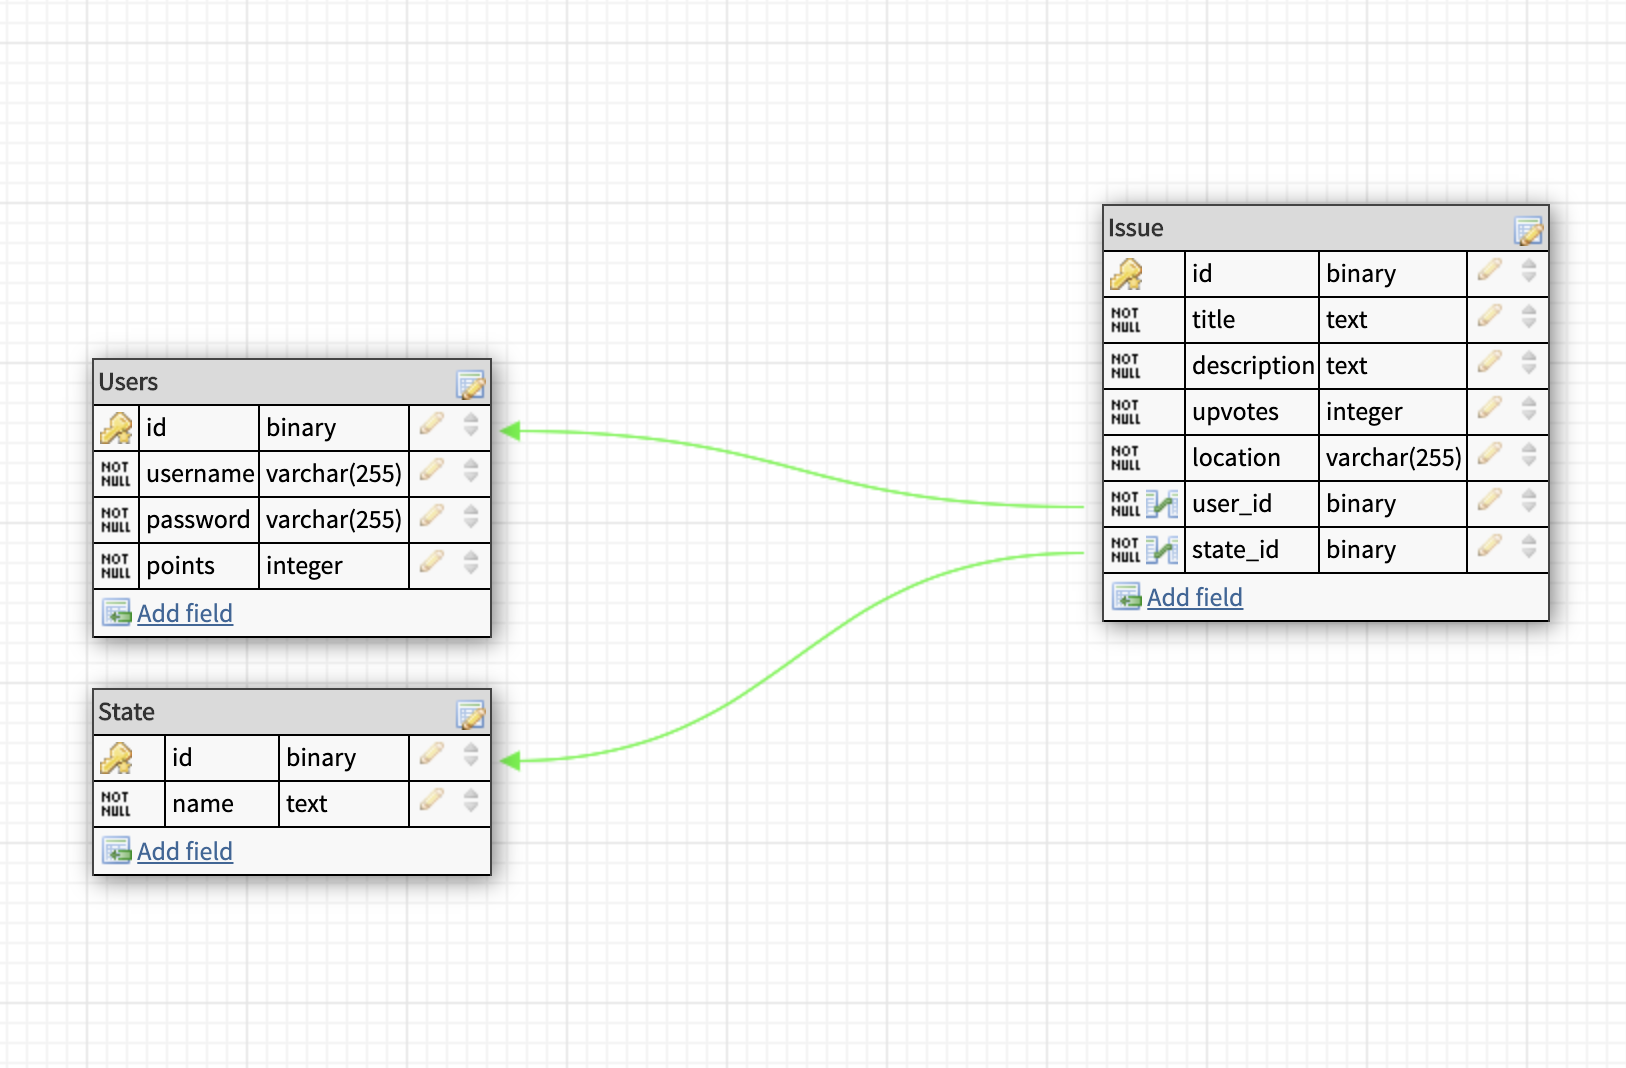
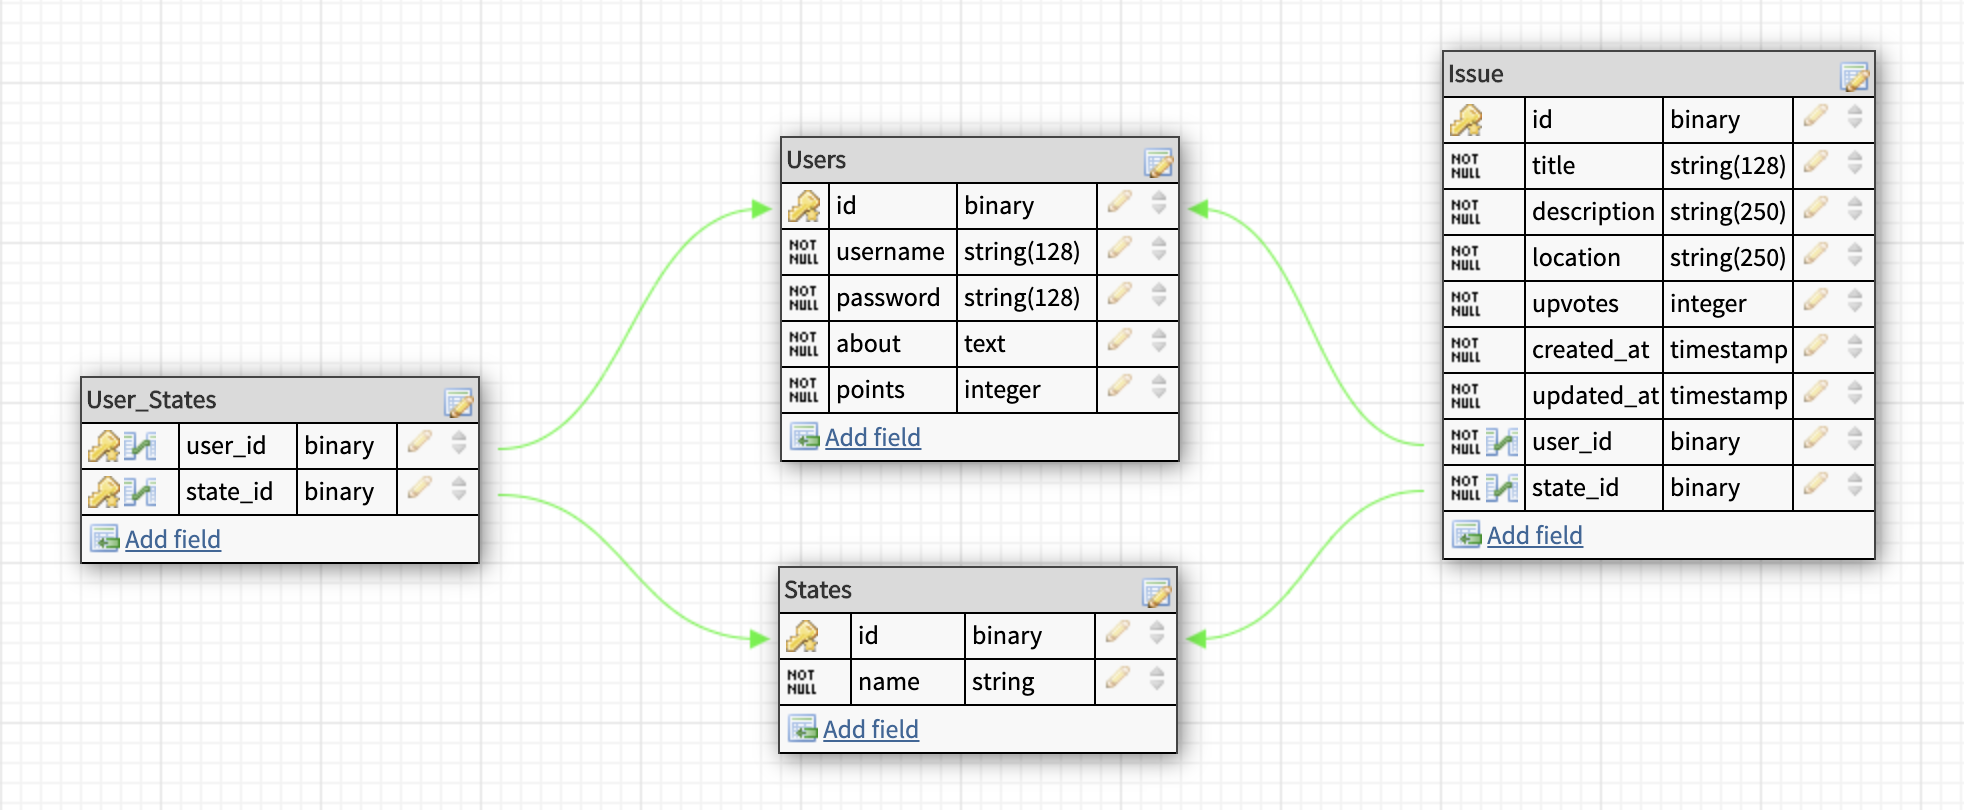
UPDATE routes

Changed region(s): [[0.0308, 0.0309, 0.984, 0.9568], [0.4613, 0.6173, 0.492, 0.6481]]

diff --git a/data/seeds/03-issues.js b/data/seeds/03-issues.js
@@ -1,21 +1,21 @@
 exports.seed = function(knex) {
       return knex('issues').insert([
-        {title: 'Potholes', description: 'There is a huge pothole on Interstate 95. It blew out my tire!', location: 'Interstate 95 south, mile marker 421', user_id: 5, state_id: 21},
-        {title: 'Construction', description: 'There has been construction going on outside my house for weeks. This needs to stop!', location: '456 Elm street, Winchester', user_id: 5, state_id: 21},
-        {title: 'Parking', description: 'I can never make it to the farmer\'s market because there is never any parking spots. We need more parking!', location: 'Downtown Winchester', user_id: 5, state_id: 21},
-        {title: 'Train issues', description: 'The train going into Boston is filthy. We really need someone to clean it periodically. I once sat on someone\'s leftover jelly donut. Ruined my new pants', location: '29 Waterfield Rd, Winchester, MA 01890', user_id: 5, state_id: 21},
-        {title: 'Dirty Beach', description: 'There is so much litter on the Cape, it\'s disgraceful!', location: 'Cape Code', user_id: 4, state_id: 21},
-        {title: 'Bad Ice Cream', description: 'I found multiple pieces of hair in my ice cream at Friendly\'s. I will never go again.', location: 'East Longmeadow', user_id: 4, state_id: 21},
-        {title: 'Yankees Fans', description: 'I keep seeing Yankees fans around Boston. This can NOT happen!', location: 'Boston', user_id: 4, state_id: 21},
-        {title: 'Salt on Roads', description: 'We need to stop putting salt on the roads everytime snow is in the forecast. It\'s going to turn my car into a rust bucket!', location: 'All roads everywhere.', user_id: 6, state_id: 21},
-        {title: 'Gas Prices', description: 'The price of gas in the city is crazy! Can you say "monopoly"?', location: 'Boston', user_id: 6, state_id: 21},
-        {title: 'Street Racing', description: 'I keep seeing the same group of cars racing down I95. So dangerous!!', location: 'Interstate 95 north, between mile markers 118 and 121 every friday night around 10pm', user_id: 4, state_id: 21},
-        {title: 'Developments', description: 'There are too many new developments being built and too many of our trees are being cut down.', location: 'Concord', user_id: 6, state_id: 29},
-        {title: 'Dirt Bikes', description: 'I have been seeing a lot of dirt bikes in places the shouldn\'t be. They are so loud!', location: 'Downtown Goffstown area', user_id: 5, state_id: 29},
-        {title: 'State Inspection prices', description: 'My state inspection cost $50! They only cost $20 a few states over.', location: 'Everywhere', user_id: 6, state_id: 29},
-        {title: 'Construction', description: 'Downtown Concord has been under construction for months and is a complete eyesore. When will they be done?!', location: 'Concord', user_id: 6, state_id: 29},
-        {title: 'Snow Removal', description: 'The snow plows have been burying everyone\'s car in and it has caused me to be late to work 3 times now! Something needs to change.', location: 'Manchester', user_id: 6, state_id: 29},
-        {title: 'No complaints', description: 'I just came here to just say that the fried chicken at the Puritan Backroom is delicious!', location: 'Manchester', user_id: 6, state_id: 29},
-        {title: 'Bicycles', description: 'There needs to be more bicycle lanes downtown. I am too affraid to ride because cars never give me enough room', location: 'Manchester', user_id: 6, state_id: 29}
+        {title: 'Potholes', description: 'There is a huge pothole on Interstate 95. It blew out my tire!', location: 'Interstate 95 south, mile marker 421', user_id: 2, state_id: 21},
+        {title: 'Construction', description: 'There has been construction going on outside my house for weeks. This needs to stop!', location: '456 Elm street, Winchester', user_id: 2, state_id: 21},
+        {title: 'Parking', description: 'I can never make it to the farmer\'s market because there is never any parking spots. We need more parking!', location: 'Downtown Winchester', user_id: 2, state_id: 21},
+        {title: 'Train issues', description: 'The train going into Boston is filthy. We really need someone to clean it periodically. I once sat on someone\'s leftover jelly donut. Ruined my new pants', location: '29 Waterfield Rd, Winchester, MA 01890', user_id: 2, state_id: 21},
+        {title: 'Dirty Beach', description: 'There is so much litter on the Cape, it\'s disgraceful!', location: 'Cape Code', user_id: 1, state_id: 21},
+        {title: 'Bad Ice Cream', description: 'I found multiple pieces of hair in my ice cream at Friendly\'s. I will never go again.', location: 'East Longmeadow', user_id: 1, state_id: 21},
+        {title: 'Yankees Fans', description: 'I keep seeing Yankees fans around Boston. This can NOT happen!', location: 'Boston', user_id: 1, state_id: 21},
+        {title: 'Salt on Roads', description: 'We need to stop putting salt on the roads everytime snow is in the forecast. It\'s going to turn my car into a rust bucket!', location: 'All roads everywhere.', user_id: 3, state_id: 21},
+        {title: 'Gas Prices', description: 'The price of gas in the city is crazy! Can you say "monopoly"?', location: 'Boston', user_id: 3, state_id: 21},
+        {title: 'Street Racing', description: 'I keep seeing the same group of cars racing down I95. So dangerous!!', location: 'Interstate 95 north, between mile markers 118 and 121 every friday night around 10pm', user_id: 1, state_id: 21},
+        {title: 'Developments', description: 'There are too many new developments being built and too many of our trees are being cut down.', location: 'Concord', user_id: 3, state_id: 29},
+        {title: 'Dirt Bikes', description: 'I have been seeing a lot of dirt bikes in places the shouldn\'t be. They are so loud!', location: 'Downtown Goffstown area', user_id: 2, state_id: 29},
+        {title: 'State Inspection prices', description: 'My state inspection cost $50! They only cost $20 a few states over.', location: 'Everywhere', user_id: 3, state_id: 29},
+        {title: 'Construction', description: 'Downtown Concord has been under construction for months and is a complete eyesore. When will they be done?!', location: 'Concord', user_id: 3, state_id: 29},
+        {title: 'Snow Removal', description: 'The snow plows have been burying everyone\'s car in and it has caused me to be late to work 3 times now! Something needs to change.', location: 'Manchester', user_id: 3, state_id: 29},
+        {title: 'No complaints', description: 'I just came here to just say that the fried chicken at the Puritan Backroom is delicious!', location: 'Manchester', user_id: 3, state_id: 29},
+        {title: 'Bicycles', description: 'There needs to be more bicycle lanes downtown. I am too affraid to ride because cars never give me enough room', location: 'Manchester', user_id: 3, state_id: 29}
       ]);
 };

diff --git a/users/users-router.js b/users/users-router.js
@@ -41,7 +41,14 @@ router.put('/:id', verify, (req, res) => {
 
     Users.update(id, req.body)
         .then(updated => {
-            res.status(200).json(updated)
+            Users.getById(id)
+                .then(user => {
+                    res.status(201).json(user)
+                })
+                .catch(err => {
+                    console.log(err)
+                    res.status(500).json({ message: 'Failed to get user' })
+                })
         })
         .catch(err => {
             console.log(err)
@@ -49,23 +56,19 @@ router.put('/:id', verify, (req, res) => {
 
 })
 
-router.delete('/:id', (req, res) => {
+router.delete('/:id', verify, (req, res) => {
     const {id} = req.params;
 
     Users.getById(id)
         .then(user => {
-            if(user) {
-                Users.remove(id)
-                    .then(deleted => {
-                        res.status(200).json({message: `You deleted ${user.username}`})
-                    })
-                    .catch(err => {
-                        console.log(err)
-                        res.status(500).json({ message: 'Failed to delete user' })
-                    })
-            } else {
-                res.status(404).json({message: 'User with given ID does not exist' })
-            }
+            Users.remove(id)
+                .then(deleted => {
+                    res.status(200).json({message: `You deleted username: ${user.username}`})
+                })
+                .catch(err => {
+                    console.log(err)
+                    res.status(500).json({ message: 'Failed to delete user' })
+                })
         })
         .catch(err => {
             res.status(500).json({message: 'Failed to find user' })

diff --git a/states/states-router.js b/states/states-router.js
@@ -93,13 +93,20 @@ router.post('/:id/issues', verifyState, (req, res) => {
 router.delete('/:id/issues/:id2', verifyState, verifyIssue, (req, res) => {
     const id = req.params.id2;
 
-    States.removeIssue(id)
-        .then(deleted => {
-            res.status(200).json(deleted)
+    States.getIssueById(id)
+        .then(issue => {
+            States.removeIssue(id)
+                .then(deleted => {
+                    res.status(200).json({message: `You deleted issue id ${issue.id}: ${issue.title} `})
+                })
+                .catch(err => {
+                    console.log(err)
+                    res.status(500).json({ message: 'Failed to remove issue' })
+                })
         })
         .catch(err => {
             console.log(err)
-            res.status(500).json({ message: 'Failed to remove issue' })
+            res.status(500).json({message: 'Failed to get issue' })
         })
 })
 
@@ -108,7 +115,14 @@ router.put('/:id/issues/:id2', verifyState, verifyIssue, (req, res) => {
 
     States.updateIssue(id, req.body)
         .then(updated => {
-            res.status(201).json(updated)
+            States.getIssueById(id)
+                .then(issue => {
+                    res.status(201).json(issue)
+                })
+                .catch(err => {
+                    console.log(err)
+                    res.status(500).json({ message: 'Failed to get issue' })
+                })
         })
         .catch(err => {
             console.log(err)

diff --git a/issues/issues-router.js b/issues/issues-router.js
@@ -1,11 +1,32 @@
 const router = require('express').Router();
+const Issues = require('./issues-model');
 
 router.get('/', (req, res) => {
-    
+    Issues.get()
+        .then(issues => {
+            res.status(200).json(issues)
+        })
+        .catch(err => {
+            console.log(err)
+            res.status(500).json({message: 'Failed to get issues' })
+        })
 })
 
 router.get('/:id', (req, res) => {
+    const {id} = req.params;
 
+    Issues.getById(id)
+        .then(issue => {
+            if(issue) {
+                res.status(200).json(issue)
+            } else {
+                res.status(404).json({ message: 'Failed to find issue with given ID' })
+            }
+        })
+        .catch(err => {
+            console.log(err)
+            res.status(500).json({message: 'Failed to get issue' })
+        })
 })
 
 module.exports = router;

diff --git a/data/seeds/02-users.js b/data/seeds/02-users.js
@@ -2,8 +2,8 @@
 exports.seed = function(knex) {
       // Inserts seed entries
       return knex('users').insert([
-        {username: 'Eddie', password: 'ed', about: 'I enjoy long walks on the beach.', points: 0},
-        {username: 'Sara', password: 'sara', about: 'I travel all around the United States looking for adventure', points: 0},
-        {username: 'Bob', password: 'bobbo', about: 'I drive my Miata up and down the east coast weekly.', points: 0},
+        {id: 1, username: 'Mario', password: 'peach', about: 'I enjoy long walks on the beach.', points: 0},
+        {id: 2, username: 'Sara', password: 'sara', about: 'I travel all around the United States looking for adventure', points: 0},
+        {id: 3, username: 'Bob', password: 'bobbo', about: 'I drive my Miata up and down the east coast weekly.', points: 0},
       ]);
 };

diff --git a/api/api-router.js b/api/api-router.js
@@ -2,11 +2,13 @@ const router = require('express').Router();
 
 const authRouter = require('../auth/auth-router.js');
 const usersRouter = require('../users/users-router.js');
-const statesRouter = require('../states/states-router')
+const statesRouter = require('../states/states-router');
+const issuesRouter = require('../issues/issues-router');
 const restrcited = require('../auth/restricted-middleware');
 
 router.use('/auth', authRouter);
 router.use('/users', restrcited, usersRouter);
 router.use('/states', restrcited, statesRouter);
+router.use('/issues', restrcited, issuesRouter);
 
 module.exports = router;

diff --git a/users/users-model.js b/users/users-model.js
@@ -8,11 +8,10 @@ module.exports = {
     update,
     remove,
     getStates,
-    // addState
 }
 
 function get() {
-    return db('users').select('id', 'username', 'points', 'about');
+    return db('users').select('id', 'username', 'points', 'about').orderBy('id')
 }
 
 function getBy(filter) {
@@ -52,7 +51,3 @@ function getStates(user_id) {
         .where({user_id: user_id})
         .select('states.name as state', 'user_states.state_id')
 }
-
-// function addState(state_id) {
-//     return db('user_states')
-// }

diff --git a/states/states-model.js b/states/states-model.js
@@ -51,7 +51,7 @@ function getIssues(state_id) {
     return db('issues')
         .join('states', 'issues.state_id', 'states.id')
         .where({state_id: state_id})
-        .select('issues.id', 'issues.title', 'issues.description', 'issues.location', 'issues.upvotes', 'issues.user_id')
+        .select('issues.id', 'issues.title', 'issues.description', 'issues.location', 'issues.upvotes', 'issues.user_id', 'issues.created_at', 'issues.updated_at')
 }
 
 function removeIssue(id) {

diff --git a/data/seeds/03-user_states.js b/data/seeds/03-user_states.js
@@ -1,10 +1,10 @@
 
 exports.seed = function(knex) {
       return knex('user_states').insert([
-        {user_id: 4, state_id: 21},
-        {user_id: 5, state_id: 21},
-        {user_id: 5, state_id: 29},
-        {user_id: 6, state_id: 21},
-        {user_id: 6, state_id: 29},
+        {user_id: 1, state_id: 21},
+        {user_id: 2, state_id: 21},
+        {user_id: 2, state_id: 29},
+        {user_id: 3, state_id: 21},
+        {user_id: 3, state_id: 29},
       ]);
 };

diff --git a/data/migrations/20200302095103_issues_table.js b/data/migrations/20200302095103_issues_table.js
@@ -14,6 +14,10 @@ exports.up = function(knex) {
 
         table.integer('upvotes').defaultTo(0)
 
+        table.timestamp('created_at').defaultTo(knex.fn.now())
+
+        table.timestamp('updated_at').defaultTo(knex.fn.now())
+
         table.integer('user_id')
             .unsigned()
             .notNullable()

diff --git a/data/migrations/20200302094936_users_table.js b/data/migrations/20200302094936_users_table.js
@@ -1,7 +1,7 @@
 
 exports.up = function(knex) {
     return knex.schema.createTable('users', table => {
-        table.increments()
+        table.increments('id')
 
         table.string('username', 128)
             .notNullable()

diff --git a/data/migrations/20200302095040_states_table.js b/data/migrations/20200302095040_states_table.js
@@ -1,7 +1,7 @@
 
 exports.up = function(knex) {
     return knex.schema.createTable('states', table => {
-        table.increments()
+        table.increments('id')
 
         table.string('name', 128)
             .notNullable()
